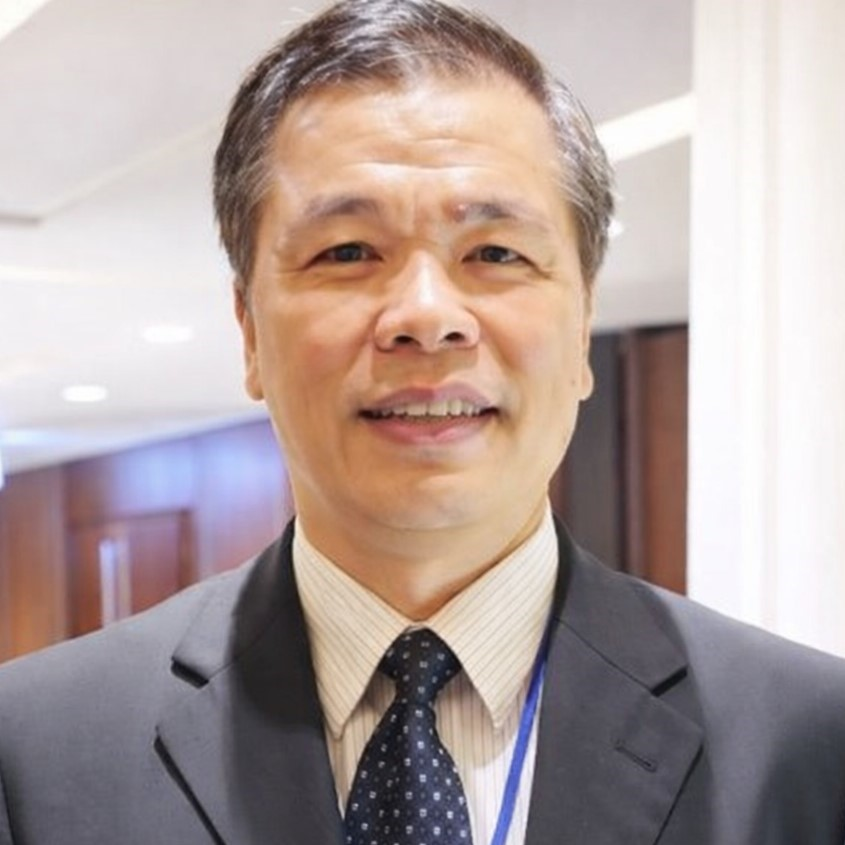
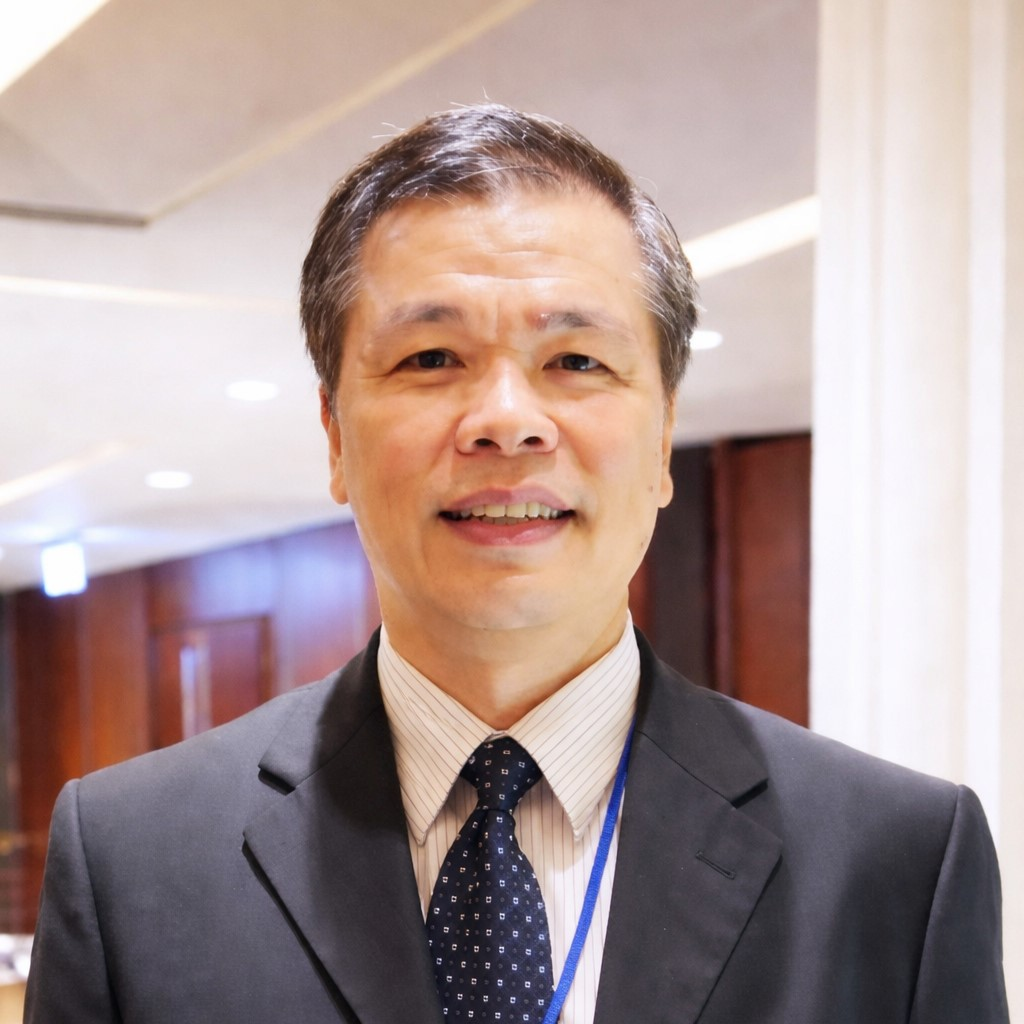
feat: 更新 HeroCarousel 背景樣式，新增滾動到關於區域的功能，並更新團隊圖片

diff --git a/app/components/HeroCarousel.vue b/app/components/HeroCarousel.vue
@@ -9,14 +9,26 @@
     >
       <!-- Slide 0: Custom Hero Content -->
       <div
-        class="min-w-full h-full relative flex flex-col justify-center items-center bg-gradient-to-b from-blue-50 to-white overflow-hidden"
+        class="min-w-full h-full relative flex flex-col justify-center items-center bg-slate-50 overflow-hidden"
       >
+        <!-- CSS Grid Pattern Background -->
+        <div
+          class="absolute inset-0 z-0 opacity-40"
+          style="
+            background-image: radial-gradient(#cbd5e1 1px, transparent 1px);
+            background-size: 32px 32px;
+          "
+        ></div>
+
         <!-- Background Blobs -->
         <div
-          class="absolute top-0 left-0 -translate-x-1/2 -translate-y-1/2 w-96 h-96 bg-blue-200 rounded-full mix-blend-multiply filter blur-3xl opacity-30 animate-blob"
+          class="absolute top-0 left-0 -translate-x-1/4 -translate-y-1/4 w-[500px] h-[500px] md:w-[800px] md:h-[800px] bg-blue-300 rounded-full mix-blend-multiply filter blur-[80px] opacity-40 animate-blob"
         ></div>
         <div
-          class="absolute top-0 right-0 translate-x-1/2 -translate-y-1/2 w-96 h-96 bg-purple-200 rounded-full mix-blend-multiply filter blur-3xl opacity-30 animate-blob animation-delay-2000"
+          class="absolute top-0 right-0 translate-x-1/4 -translate-y-1/4 w-[500px] h-[500px] md:w-[800px] md:h-[800px] bg-purple-300 rounded-full mix-blend-multiply filter blur-[80px] opacity-40 animate-blob animation-delay-2000"
+        ></div>
+        <div
+          class="absolute -bottom-32 left-1/2 -translate-x-1/2 w-[500px] h-[500px] md:w-[800px] md:h-[800px] bg-indigo-300 rounded-full mix-blend-multiply filter blur-[80px] opacity-40 animate-blob animation-delay-4000"
         ></div>
 
         <!-- Content -->
@@ -34,15 +46,21 @@
             >
           </h1>
 
-          <div class="flex flex-wrap justify-center gap-4">
+          <div class="flex flex-col items-center justify-center gap-4">
             <!-- <NuxtLink to="/curriculum" class="px-8 py-3 rounded-full flex items-center justify-center gap-2 bg-[#24292e] text-white hover:bg-slate-800 transition shadow-lg hover:shadow-xl transform hover:-translate-y-0.5 font-medium">
                         <Icon name="uil:github" size="20" /> GitHub 課程資源
                     </NuxtLink> -->
             <button
               @click="$emit('open-modal')"
-              class="px-8 py-3 rounded-full flex items-center justify-center gap-2 bg-[#28a745] text-white hover:bg-green-600 transition shadow-lg hover:shadow-xl transform hover:-translate-y-0.5 font-medium"
+              class="w-full sm:w-auto px-8 py-3 rounded-full flex items-center justify-center gap-2 bg-[#28a745] text-white hover:bg-green-600 transition shadow-lg hover:shadow-xl transform hover:-translate-y-0.5 font-medium"
             >
               <Icon name="heroicons:user-plus" size="20" /> 申請加入專業社群
+            </button>
+            <button
+              @click="scrollToAbout"
+              class="w-full sm:w-auto px-8 py-3 rounded-full flex items-center justify-center gap-2 bg-white text-[#004d80] hover:bg-slate-50 transition shadow-lg hover:shadow-xl transform hover:-translate-y-0.5 font-medium border border-blue-100"
+            >
+              <Icon name="heroicons:arrow-down-circle" size="20" /> 瀏覽計畫介紹
             </button>
           </div>
         </div>
@@ -161,6 +179,13 @@ const stopTimer = () => {
   }
 };
 
+const scrollToAbout = () => {
+  const element = document.getElementById("about");
+  if (element) {
+    element.scrollIntoView({ behavior: "smooth" });
+  }
+};
+
 onMounted(() => {
   startTimer();
 });
@@ -180,6 +205,9 @@ defineEmits(["open-modal"]);
 }
 .animation-delay-2000 {
   animation-delay: 2s;
+}
+.animation-delay-4000 {
+  animation-delay: 4s;
 }
 @keyframes blob {
   0% {
